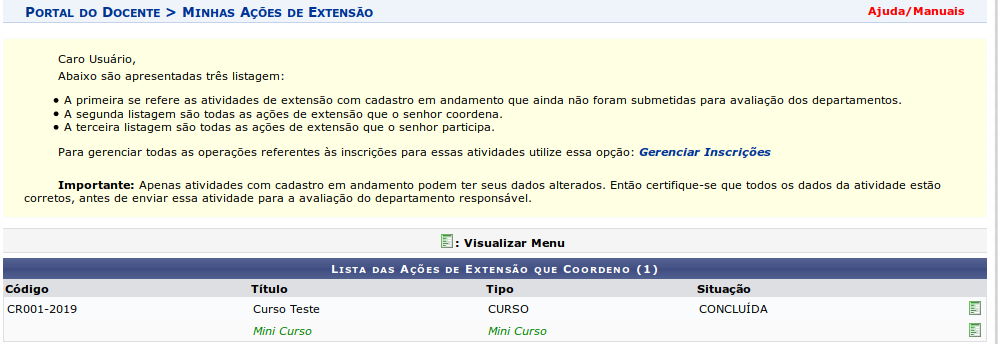
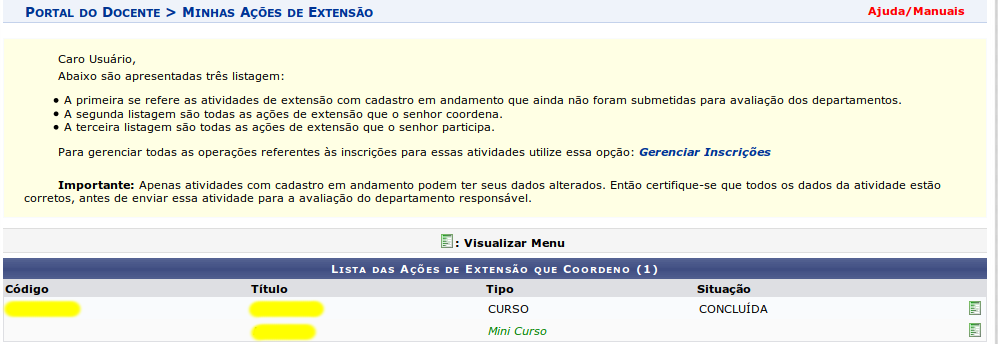
feat: adicionadas correções em imagens

Changed region(s): [[0.2485, 0.8721, 0.3417, 1.0], [0.0, 0.8721, 0.0932, 0.9302]]

diff --git a/source/sistemas/sig/sigaa/extensao/gerenciamento-participantes.rst b/source/sistemas/sig/sigaa/extensao/gerenciamento-participantes.rst
@@ -20,11 +20,22 @@ o usuário clica no botão |usuario| *Gerenciar Participantes*, da ação que se
 
 .. image:: /_static/img/extensao/gerenciamento/participantes/gerenciar-participantes.png
 
-A página de gerenciamento de participantes permite adicionar um novo participante sem necessidade de inscrição, ou emitir certificados e
+O sistema carrega a página de gerenciamento de participantes. É possível permitir que o participante externo
+possa emitir declarações e certificados alterando a caixa de seleção das colunas Declaração e Certificado,
+respectivamente. Para alterar o tipo da participação do participante, entre outros dados, o coordenador deverá passar o cursos do mouse
+sobre o ícone |submenu| e em seguida escolher a opção *Alterar Participante*:
+
+.. image:: /_static/img/extensao/gerenciamento/participantes/alterar-participantes.png
+
+Apóp fazer as alterações que deseja, o coordenador deverá clicar no botão *Alterar Participante*:
+
+.. image:: /_static/img/extensao/gerenciamento/participantes/alterar-participantes-form.png
+
+A página de gerenciamento de participantes também permite adicionar um novo participante sem necessidade de inscrição, ou emitir certificados e
 declarações dos participantes inscritos. Para adicionar um novo participante, o usuário clica no botão |usuario|
 *Adicionar Novo Participante*, conforme imagem a seguir:
 
-.. image:: /_static/img/extensao/gerenciamento/participantes/adicionar-participante.png
+.. image:: /_static/img/extensao/gerenciamento/participantes/adicionar-novo-participante.png
 
 .. note::
     O coordenador da ação pode gerar declarações e certificados dos participantes a qualquer momento, clicando

diff --git a/source/sistemas/sig/sig.rst b/source/sistemas/sig/sig.rst
@@ -57,3 +57,4 @@ Portal do Egresso
 .. |relatorio_final| image:: /_static/img/relatorio-final.png
 .. |visualizacao| image:: /_static/img/visualizacao.png
 .. |visualizacao_gbg| image:: /_static/img/visualizacao-gbg.png
+.. |submenu| image:: /_static/img/submenu.png
